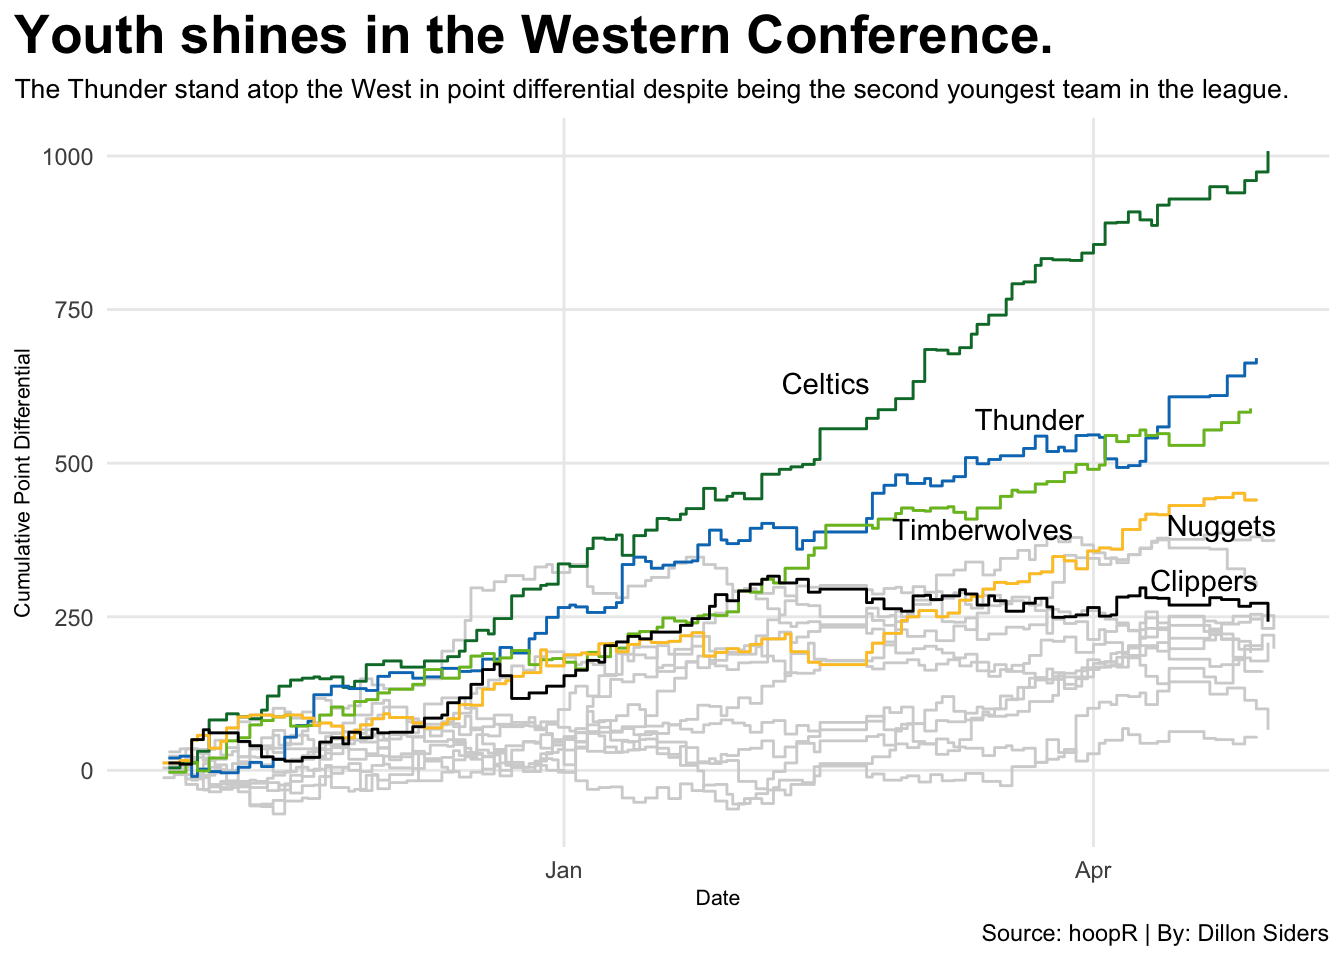
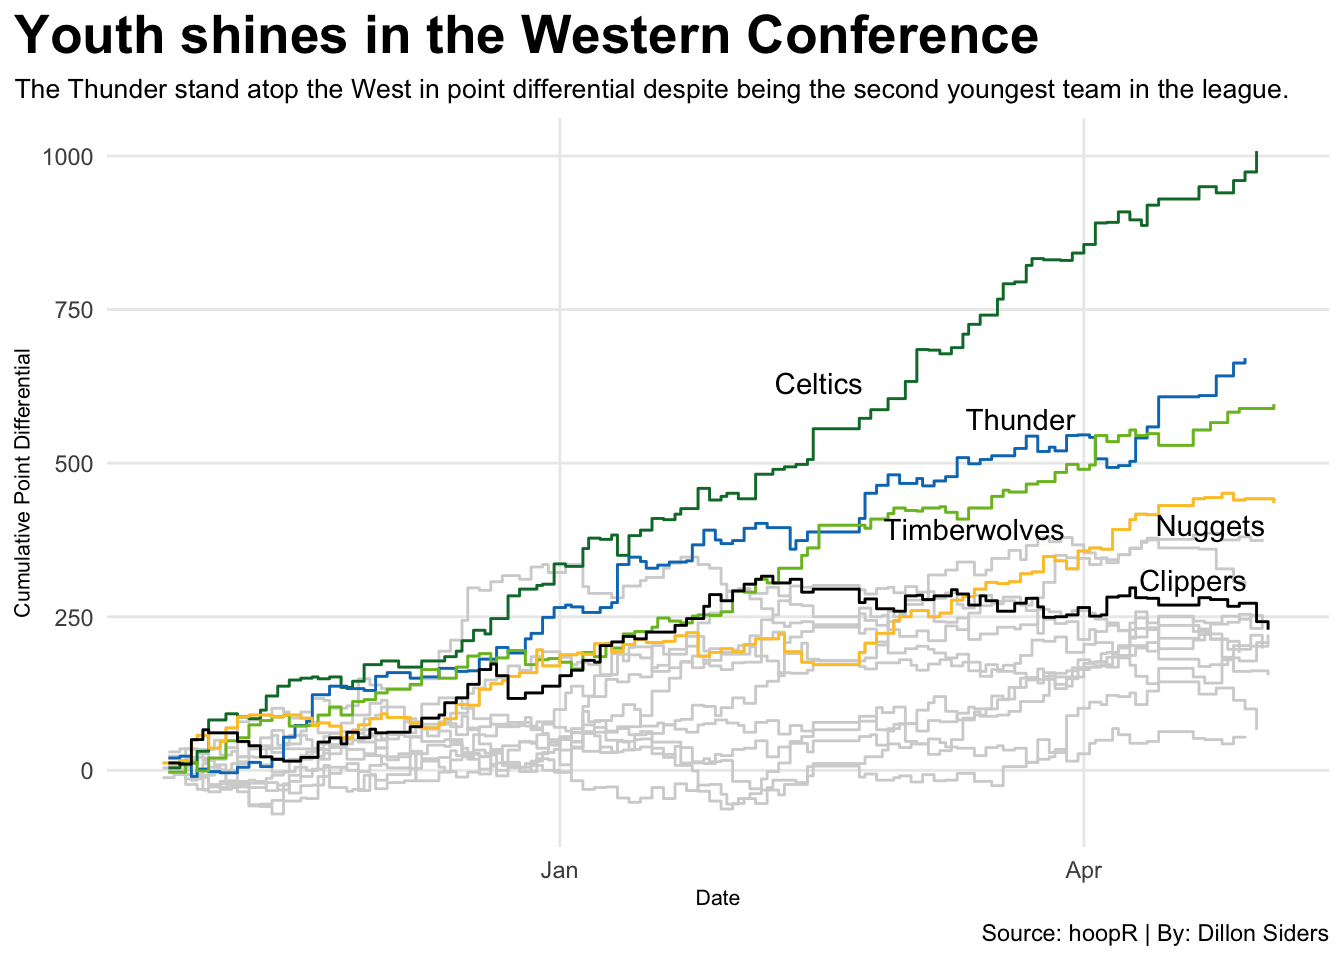
final changes

diff --git a/posts/thunder-true-title-contenders/index.html b/posts/thunder-true-title-contenders/index.html
@@ -209,7 +209,7 @@ pre > code.sourceCode > span > a:first-child::before { text-decoration: underlin
 <span id="cb1-14"><a href="#cb1-14" aria-hidden="true" tabindex="-1"></a>  <span class="fu">labs</span>(</span>
 <span id="cb1-15"><a href="#cb1-15" aria-hidden="true" tabindex="-1"></a>    <span class="at">x=</span><span class="st">"Week"</span>,</span>
 <span id="cb1-16"><a href="#cb1-16" aria-hidden="true" tabindex="-1"></a>    <span class="at">y=</span><span class="st">"Standings Rank"</span>,</span>
-<span id="cb1-17"><a href="#cb1-17" aria-hidden="true" tabindex="-1"></a>    <span class="at">title=</span><span class="st">"Western Confernece playoff teams standings </span><span class="sc">\n</span><span class="st">placement throughtout the season."</span>,</span>
+<span id="cb1-17"><a href="#cb1-17" aria-hidden="true" tabindex="-1"></a>    <span class="at">title=</span><span class="st">"Western Confernece playoff teams standings </span><span class="sc">\n</span><span class="st">placement throughtout the season"</span>,</span>
 <span id="cb1-18"><a href="#cb1-18" aria-hidden="true" tabindex="-1"></a>    <span class="at">subtitle =</span> <span class="st">"OKC, Denver, and Minnesota were consistently atop the west all year."</span>,</span>
 <span id="cb1-19"><a href="#cb1-19" aria-hidden="true" tabindex="-1"></a>    <span class="at">caption =</span> <span class="st">"Source: https://www.basketball-reference.com/leagues/NBA_2024_standings_by_date_western_conference.html | By:Dillon Siders"</span></span>
 <span id="cb1-20"><a href="#cb1-20" aria-hidden="true" tabindex="-1"></a>  ) <span class="sc">+</span></span>
@@ -273,7 +273,7 @@ pre > code.sourceCode > span > a:first-child::before { text-decoration: underlin
 <span id="cb2-32"><a href="#cb2-32" aria-hidden="true" tabindex="-1"></a>  <span class="fu">labs</span>(</span>
 <span id="cb2-33"><a href="#cb2-33" aria-hidden="true" tabindex="-1"></a>    <span class="at">x=</span><span class="st">"Date"</span>,</span>
 <span id="cb2-34"><a href="#cb2-34" aria-hidden="true" tabindex="-1"></a>    <span class="at">y=</span><span class="st">"Cumulative Point Differential"</span>,</span>
-<span id="cb2-35"><a href="#cb2-35" aria-hidden="true" tabindex="-1"></a>    <span class="at">title=</span><span class="st">"Youth shines in the Western Conference."</span>,</span>
+<span id="cb2-35"><a href="#cb2-35" aria-hidden="true" tabindex="-1"></a>    <span class="at">title=</span><span class="st">"Youth shines in the Western Conference"</span>,</span>
 <span id="cb2-36"><a href="#cb2-36" aria-hidden="true" tabindex="-1"></a>    <span class="at">subtitle=</span><span class="st">"The Thunder stand atop the West in point differential despite being the second youngest team in the league."</span>,</span>
 <span id="cb2-37"><a href="#cb2-37" aria-hidden="true" tabindex="-1"></a>    <span class="at">caption=</span><span class="st">"Source: hoopR | By: Dillon Siders"</span></span>
 <span id="cb2-38"><a href="#cb2-38" aria-hidden="true" tabindex="-1"></a>  ) <span class="sc">+</span></span>
@@ -365,8 +365,8 @@ pre > code.sourceCode > span > a:first-child::before { text-decoration: underlin
 <span id="cb3-63"><a href="#cb3-63" aria-hidden="true" tabindex="-1"></a>  <span class="fu">labs</span>(</span>
 <span id="cb3-64"><a href="#cb3-64" aria-hidden="true" tabindex="-1"></a>    <span class="at">x=</span><span class="st">"Offensive Efficiency"</span>,</span>
 <span id="cb3-65"><a href="#cb3-65" aria-hidden="true" tabindex="-1"></a>    <span class="at">y=</span><span class="st">"Defensive Efficiency"</span>,</span>
-<span id="cb3-66"><a href="#cb3-66" aria-hidden="true" tabindex="-1"></a>    <span class="at">title=</span><span class="st">"True title contenders are great on both sides of the court."</span>,</span>
-<span id="cb3-67"><a href="#cb3-67" aria-hidden="true" tabindex="-1"></a>    <span class="at">subtitle=</span><span class="st">"While all the top teams in the west play both ways the Thunder bring the most balance between offense and defense."</span>,</span>
+<span id="cb3-66"><a href="#cb3-66" aria-hidden="true" tabindex="-1"></a>    <span class="at">title=</span><span class="st">"True title contenders are great on both ends"</span>,</span>
+<span id="cb3-67"><a href="#cb3-67" aria-hidden="true" tabindex="-1"></a>    <span class="at">subtitle=</span><span class="st">"While OKC, Denver, and Minnesota all plat both ways, OKC brings the most balance."</span>,</span>
 <span id="cb3-68"><a href="#cb3-68" aria-hidden="true" tabindex="-1"></a>    <span class="at">caption=</span><span class="st">"Source: https://www.basketball-reference.com/leagues/NBA_2024.html | By: Dillon Siders "</span></span>
 <span id="cb3-69"><a href="#cb3-69" aria-hidden="true" tabindex="-1"></a>  ) <span class="sc">+</span></span>
 <span id="cb3-70"><a href="#cb3-70" aria-hidden="true" tabindex="-1"></a>  <span class="fu">theme_minimal</span>() <span class="sc">+</span></span>

diff --git a/index.html b/index.html
@@ -205,7 +205,7 @@ window.Quarto = {
 
 <div class="quarto-listing quarto-listing-container-default" id="listing-listing">
 <div class="list quarto-listing-default">
-<div class="quarto-post image-right" data-index="0" data-categories="" data-listing-date-sort="1714885200000" data-listing-file-modified-sort="1714763992709" data-listing-date-modified-sort="NaN" data-listing-reading-time-sort="9" data-listing-word-count-sort="1717">
+<div class="quarto-post image-right" data-index="0" data-categories="" data-listing-date-sort="1714885200000" data-listing-file-modified-sort="1714938883684" data-listing-date-modified-sort="NaN" data-listing-reading-time-sort="9" data-listing-word-count-sort="1697">
 <div class="thumbnail">
 <p><a href="./posts/thunder-true-title-contenders/index.html" class="no-external"></a></p><a href="./posts/thunder-true-title-contenders/index.html" class="no-external">
 <p><img src="./posts/thunder-true-title-contenders/image.png" class="thumbnail-image"></p>
